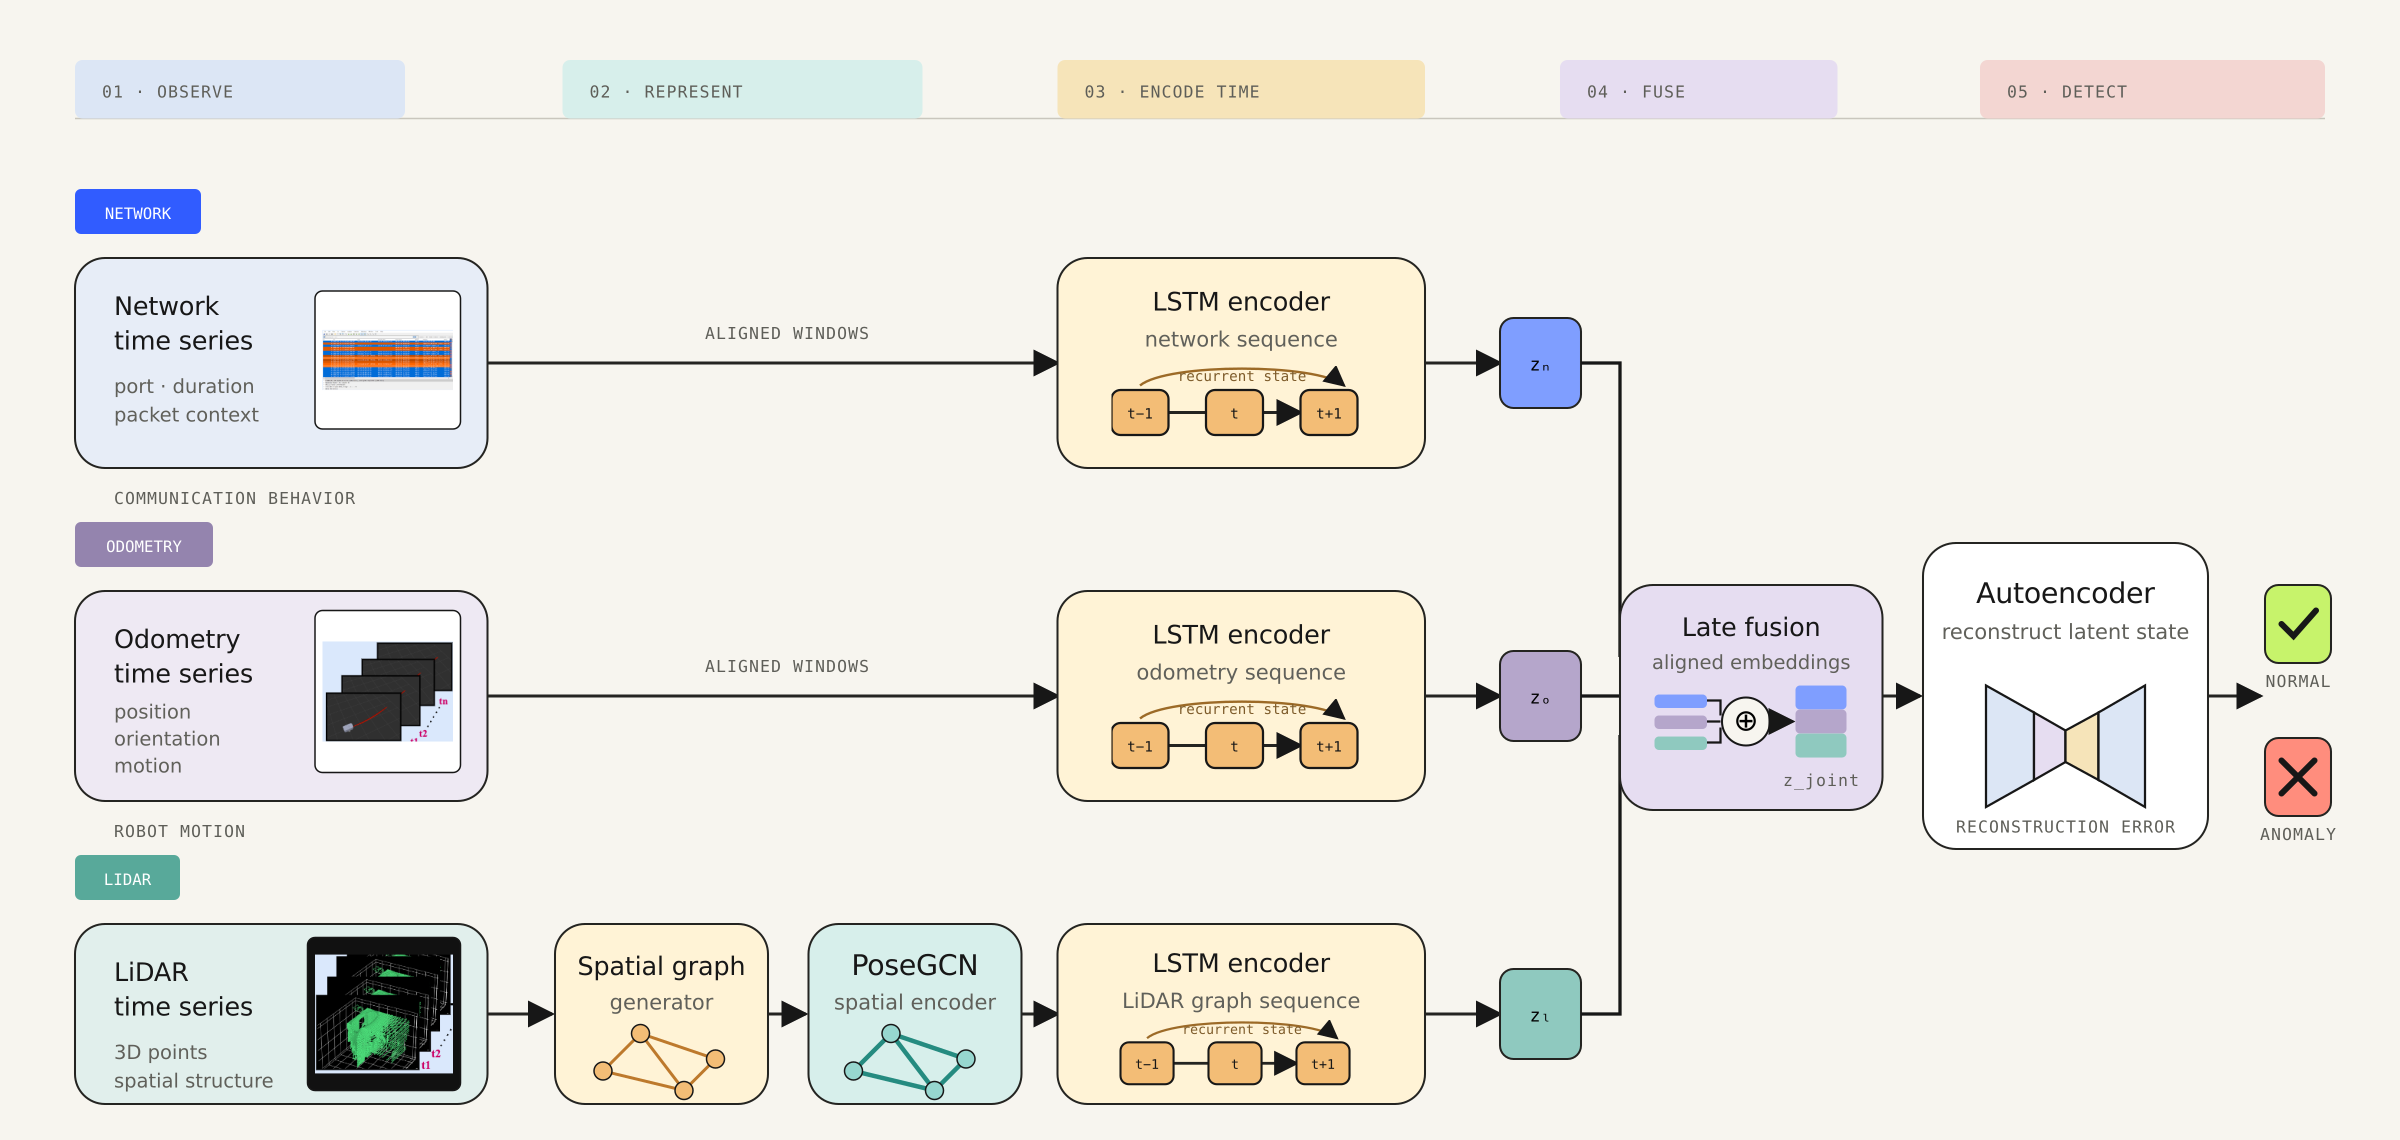
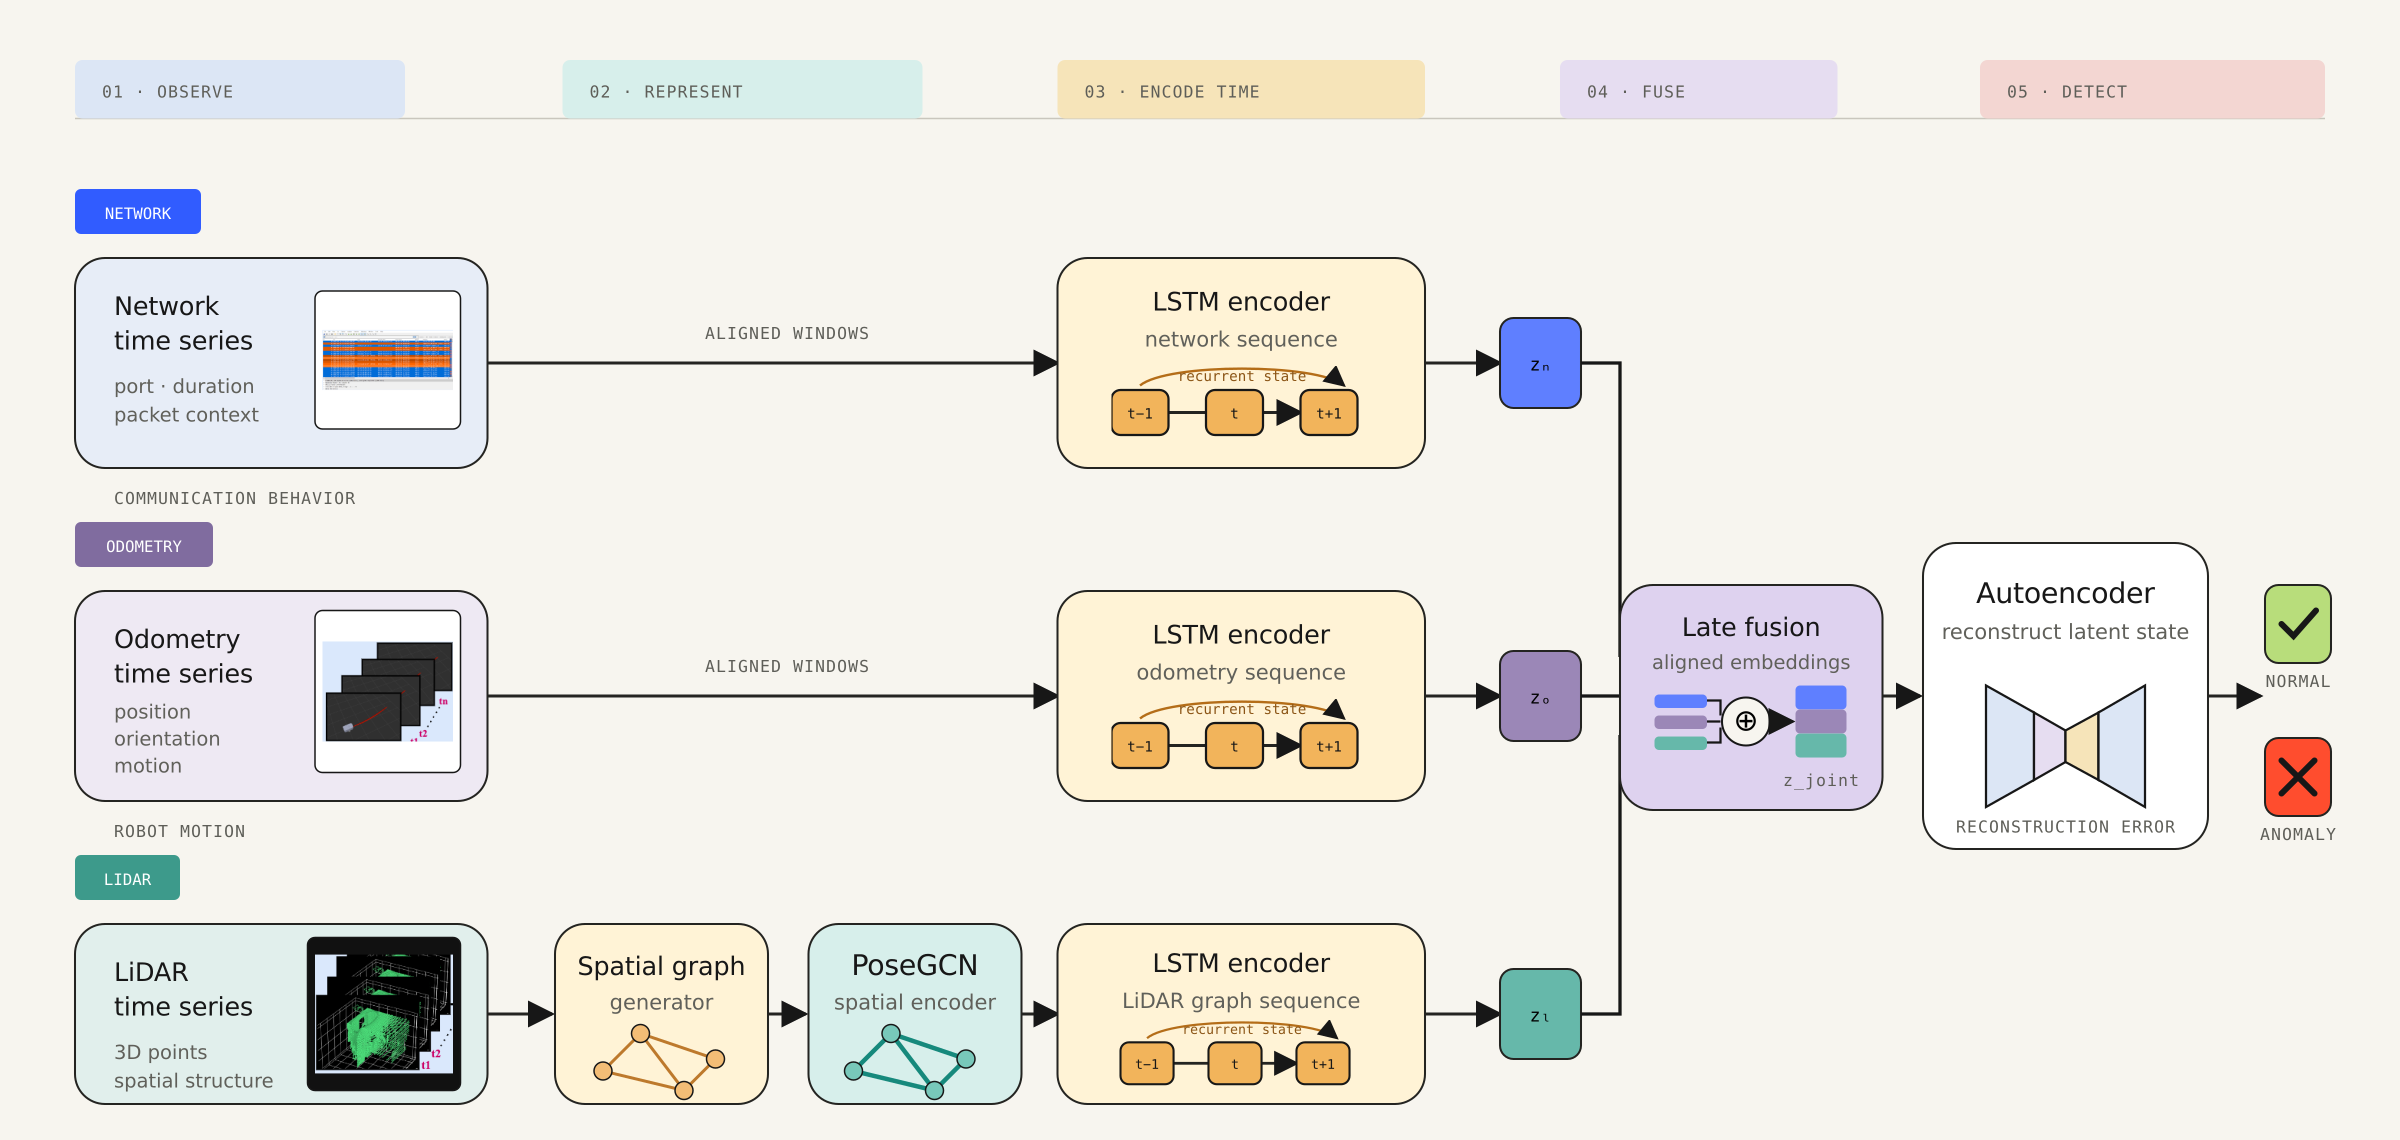
Strengthen U-ASTROD technical accents

diff --git a/index.html b/index.html
@@ -381,7 +381,7 @@
 
       <article class="role-spotlight">
         <div class="role-copy"><p class="eyebrow"><span></span>Technical module · U-ASTROD</p><h3>Multimodal anomaly detection</h3><p>For the ASTROD research program, I architected the fusion pipeline that encoded LiDAR, odometry, and network traffic independently before combining their learned representations in a shared anomaly detector.</p><p class="research-note">The published system paired modality-specific spatiotemporal encoders with feature-wise reconstruction scoring. On real robot attacks, that scoring increased multimodal detection accuracy from 72% to 98% and retained 97% accuracy with half the training data.</p><div class="spotlight-links"><a class="button button-light" href="projects/multimodal-anomaly-detection/">Open case study <span aria-hidden="true">→</span></a><a class="text-link" href="https://doi.org/10.1007/978-3-031-74835-6_15">Publication <span aria-hidden="true">↗</span></a></div></div>
-        <figure class="role-figure"><img src="imgs/astrod-architecture.png?v=20260926-2" alt="U-ASTROD process flow with actual network, odometry, and LiDAR samples feeding modality-specific encoders and a shared anomaly detector"><figcaption>U-ASTROD process flow · redrawn from the published architecture</figcaption></figure>
+        <figure class="role-figure"><img src="imgs/astrod-architecture.png?v=20260926-3" alt="U-ASTROD process flow with actual network, odometry, and LiDAR samples feeding modality-specific encoders and a shared anomaly detector"><figcaption>U-ASTROD process flow · redrawn from the published architecture</figcaption></figure>
       </article>
     </section>
 
@@ -495,7 +495,7 @@
         <article class="atlas-item" data-category="human"><div class="atlas-number">13</div><div><span>Product intelligence</span><h3><a href="https://github.com/tvpian/My-Style">My Style ↗</a></h3></div><p>An AI-assisted shopping and personal-style application.</p><video muted loop playsinline preload="none" poster="imgs/my_style.jpg" aria-hidden="true"><source src="imgs/my_style.mp4" type="video/mp4"></video></article>
         <article class="atlas-item" data-category="human autonomy"><div class="atlas-number">14</div><div><span>Reinforcement learning</span><h3><a href="https://github.com/tvpian/RL_Cricket_Simulation_Engine">RL Cricket Simulation ↗</a></h3></div><p>A bowler agent that adapts to batting styles and field configurations.</p><video muted loop playsinline preload="none" poster="imgs/RL_cs.png" aria-hidden="true"><source src="imgs/RL_cs.mp4" type="video/mp4"></video></article>
         <article class="atlas-item" data-category="embodied"><div class="atlas-number">15</div><div><span>Soft robotics · published</span><h3><a href="https://scholar.google.com/citations?view_op=view_citation&amp;hl=en&amp;user=Vre9wQQAAAAJ&amp;citation_for_view=Vre9wQQAAAAJ:YsMSGLbcyi4C">Wall-Climbing Robot ↗</a></h3></div><p>A lightweight soft-robotic prototype for pipe inspection.</p><img src="imgs/wall_climber.gif" alt="Wall-climbing soft robot in motion"></article>
-        <article class="atlas-item" data-category="autonomy perception"><div class="atlas-number">16</div><div><span>Cyber-physical security · published</span><h3><a href="projects/multimodal-anomaly-detection/">Multimodal Anomaly Detection →</a></h3></div><p>Modality-specific LiDAR, odometry, and network encoders fused for abnormal-behavior detection.</p><img src="imgs/astrod-architecture.png?v=20260926-2" alt="U-ASTROD multimodal fusion architecture"></article>
+        <article class="atlas-item" data-category="autonomy perception"><div class="atlas-number">16</div><div><span>Cyber-physical security · published</span><h3><a href="projects/multimodal-anomaly-detection/">Multimodal Anomaly Detection →</a></h3></div><p>Modality-specific LiDAR, odometry, and network encoders fused for abnormal-behavior detection.</p><img src="imgs/astrod-architecture.png?v=20260926-3" alt="U-ASTROD multimodal fusion architecture"></article>
         <article class="atlas-item" data-category="product human"><div class="atlas-number">17</div><div><span>Local-first product</span><h3><a href="https://github.com/tvpian/Ultranote_Lite">UltraNote Lite ↗</a></h3></div><p>A self-hosted workspace for daily capture, research, projects, and human–agent collaboration.</p><img src="imgs/ultranote-research.png" alt="UltraNote research workspace"></article>
         <article class="atlas-item" data-category="autonomy perception"><div class="atlas-number">18</div><div><span>Research poster · 2021</span><h3><a href="https://www.researchgate.net/publication/378143055_Event_Based_Dynamic_Obstacle_Avoidance_For_Outdoor_Environments">Event-Based Dynamic Obstacle Avoidance ↗</a></h3></div><p>An exploratory outdoor-safety concept using asynchronous event streams.</p><div class="atlas-no-media event-stream-mini" aria-hidden="true"><i></i><i></i><i></i><i></i><i></i><span>events → safe action</span></div></article>
         <article class="atlas-item" data-category="product human"><div class="atlas-number">19</div><div><span>Local-first product</span><h3><a href="https://github.com/tvpian/Intra-Chat">Intra-Chat ↗</a></h3></div><p>A LAN-hosted team hub for conversation, project knowledge, files, and equipment records.</p><img src="https://raw.githubusercontent.com/tvpian/Intra-Chat/main/docs/screenshots/02-chat.png" alt="Intra-Chat team conversation interface"></article>

diff --git a/projects/multimodal-anomaly-detection/index.html b/projects/multimodal-anomaly-detection/index.html
@@ -7,7 +7,7 @@
 <section class="paper-abstract"><p class="eyebrow">Abstract</p><p>A stealthy false obstacle may look legitimate in the point cloud. It is harder for that same attack to remain consistent with robot motion and the network activity that delivered it. The detector learns those cross-modal relationships from normal operation.</p></section>
 <section class="resource-bar"><a href="https://doi.org/10.1007/978-3-031-74835-6_15"><span>GameSec 2024</span>Three-modal U-ASTROD study ↗</a><a href="https://doi.org/10.1109/ROSE69181.2026.11570974"><span>IEEE ROSE 2026</span>Domain-informed two-modal detector ↗</a><div><span>Platform</span>Clearpath Husky · physical and simulated environments</div><div><span>Evidence</span>Attack runs · modality ablations · cross-environment tests</div></section>
 <aside class="claim-key" aria-label="Claim maturity used on this page"><span>Evidence language</span><div><i class="evidence-badge implemented">Implemented</i><i class="evidence-badge measured">Measured</i><i class="evidence-badge demonstrated">Published</i></div><p>Results are tied to the reported attack, modality, window, and environment.</p></aside>
-<section class="project-media media-natural"><img src="../assets/anomaly/astrod-process-flow.webp?v=20260926-2" alt="Complete U-ASTROD process flow with actual LiDAR, odometry and network samples, modality-specific encoders, late fusion and anomaly detection" width="2400" height="1140"><div class="media-caption"><span>U-ASTROD process flow · redrawn from the published architecture</span><span>Spatial encoder · temporal encoders · late fusion · anomaly score</span></div></section>
+<section class="project-media media-natural"><img src="../assets/anomaly/astrod-process-flow.webp?v=20260926-3" alt="Complete U-ASTROD process flow with actual LiDAR, odometry and network samples, modality-specific encoders, late fusion and anomaly detection" width="2400" height="1140"><div class="media-caption"><span>U-ASTROD process flow · redrawn from the published architecture</span><span>Spatial encoder · temporal encoders · late fusion · anomaly score</span></div></section>
 
 <section class="project-section dark" id="threat"><div class="section-heading"><div><p class="eyebrow">Threat model</p><h2>A plausible perception can still be inconsistent behavior.</h2></div><p>A man-in-the-middle attack intercepts the robot’s ROS point-cloud stream and injects false obstacles. The autonomy stack reacts to a scene that does not exist. LiDAR alone may accept the modified observation; odometry and network traffic provide independent context.</p></div>
 <div class="method-grid"><article><span class="number">Physical trace</span><h3>LiDAR geometry</h3><p>Captures the spatial structure perceived by navigation. It is also the attacked channel in the false-obstacle scenario.</p></article><article><span class="number">Behavior trace</span><h3>Odometry through time</h3><p>Reveals how the robot actually moved in response to the perceived environment.</p></article><article><span class="number">Cyber trace</span><h3>Network traffic</h3><p>Exposes communication patterns that can change when messages are intercepted, altered, or replayed.</p></article></div>
